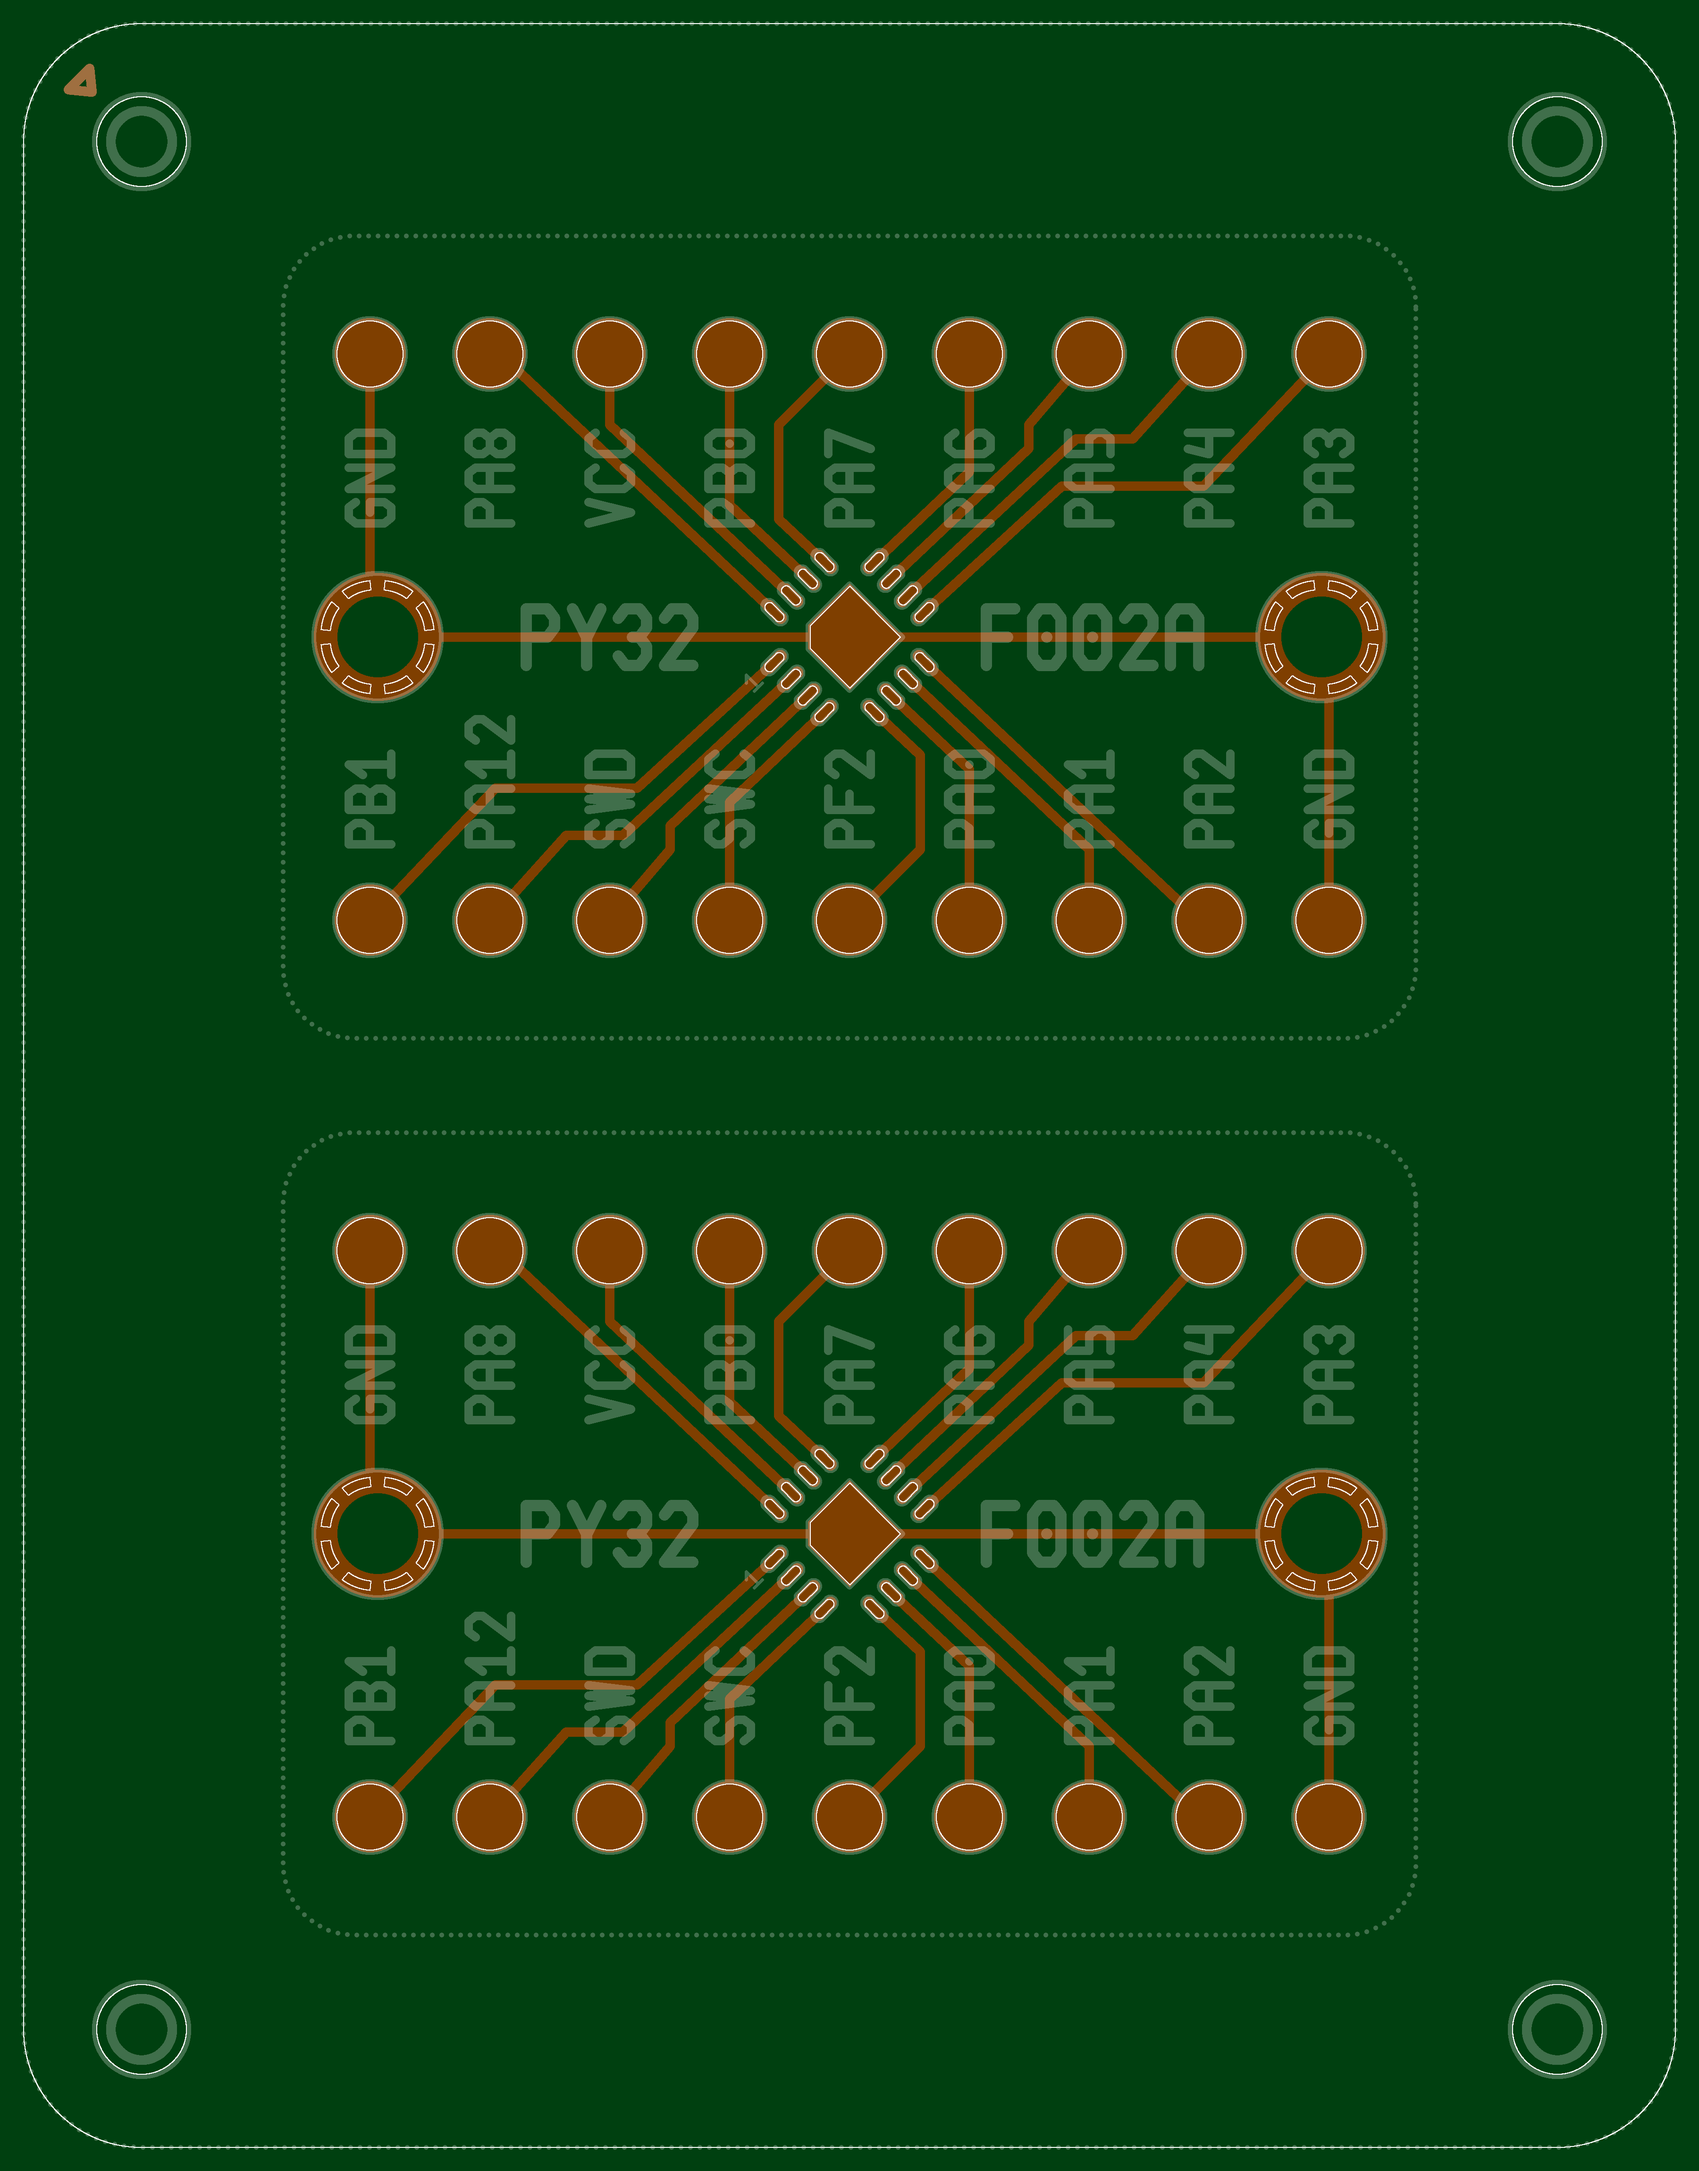
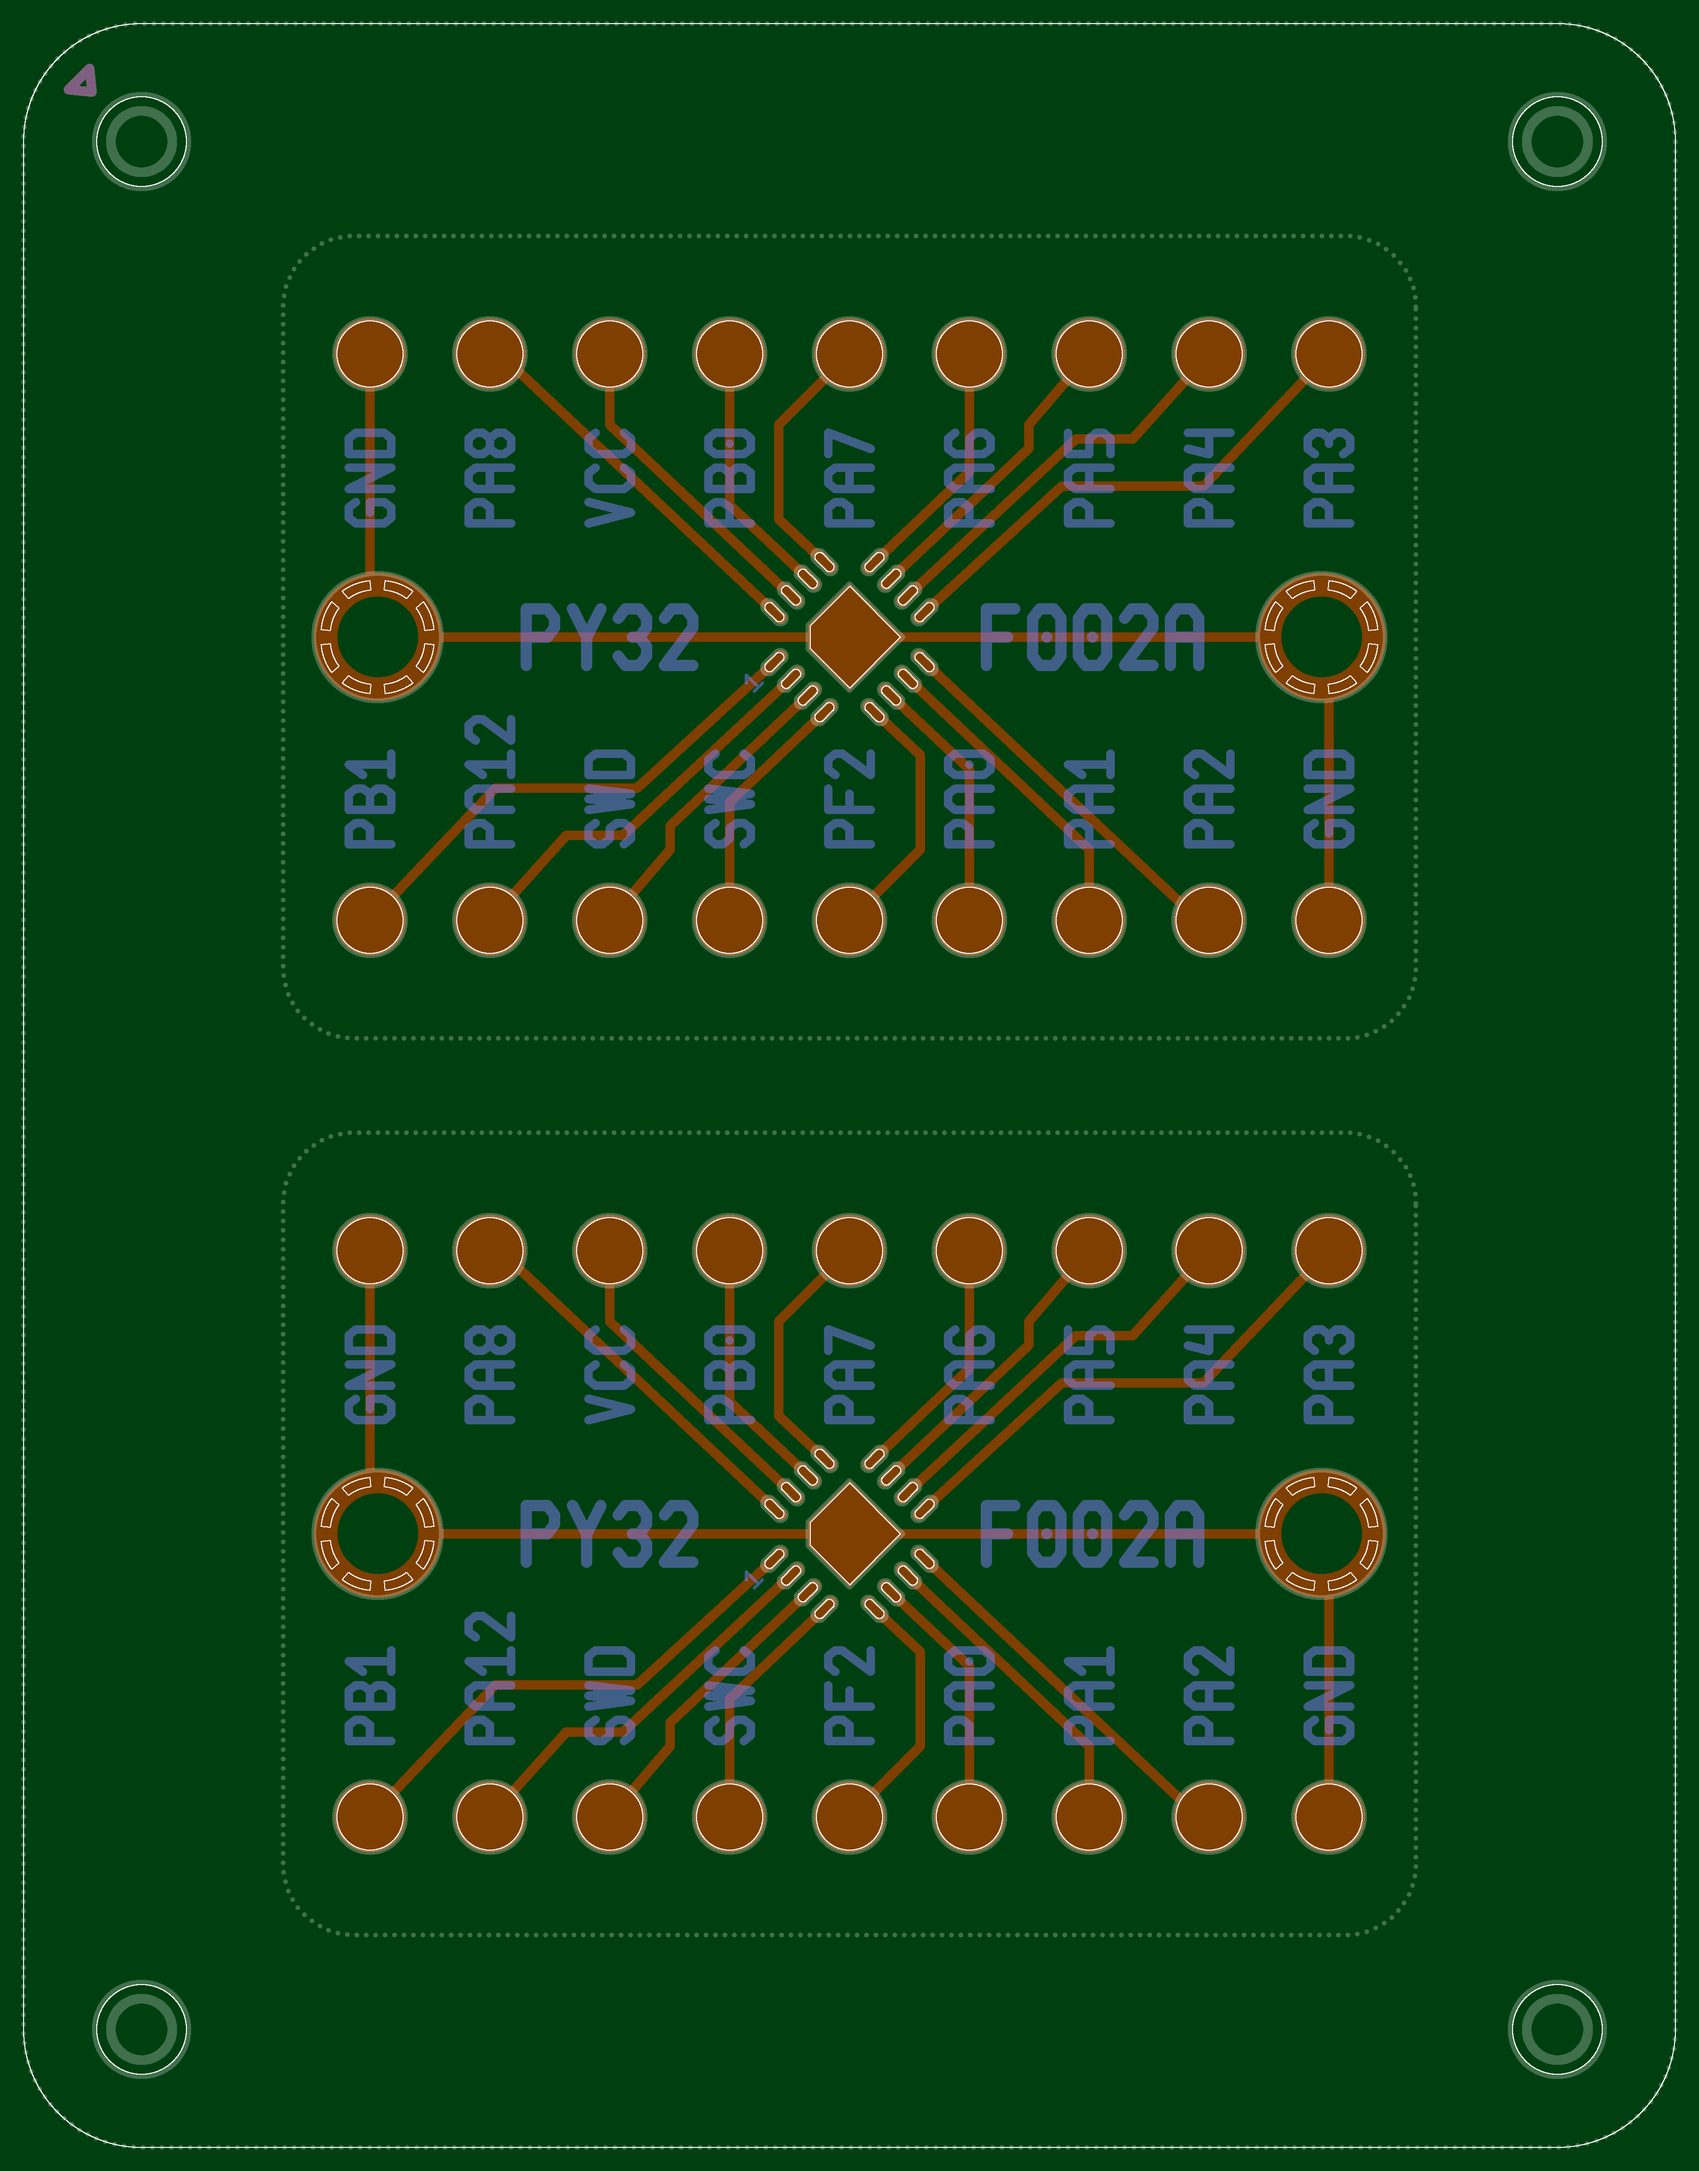
Overview: change silkscreen color

diff --git a/eda/pcb.go b/eda/pcb.go
@@ -151,7 +151,7 @@ func (pcb *PCB) SaveFiles(path string) error {
 		Images: []image.Image{
 			pcb.cu.ToImage(color.RGBA{0, 0x40, 0x10, 0xFF}, color.RGBA{0xFF, 0x80, 0, 0x7F}),
 			pcb.mask.ToImage(color.RGBA{0, 0, 0, 0}, color.RGBA{0xFF, 0xFF, 0xFF, 0x40}),
-			pcb.silk.ToImage(color.RGBA{0, 0, 0, 0}, color.RGBA{0xFF, 0xFF, 0xFF, 0x40}),
+			pcb.silk.ToImage(color.RGBA{0, 0, 0, 0}, color.RGBA{0x7F, 0x7F, 0xFF, 0x80}),
 			pcb.stencil.ToImage(color.RGBA{0, 0, 0, 0}, color.RGBA{0xFF, 0xFF, 0xFF, 0xFF}),
 		},
 	}); err != nil {

diff --git a/README.md b/README.md
@@ -11,7 +11,8 @@
 
 * Red: copper layer
 * Dark green: FR4
-* Light green: soldermask cuts / marks (silkscreen)
+* Light green: soldermask cuts
+* Blue: soldermask marks (silkscreen)
 * White: stencil cuts
 
 ![PCB Overview](./pcbc/out/overview.png)
